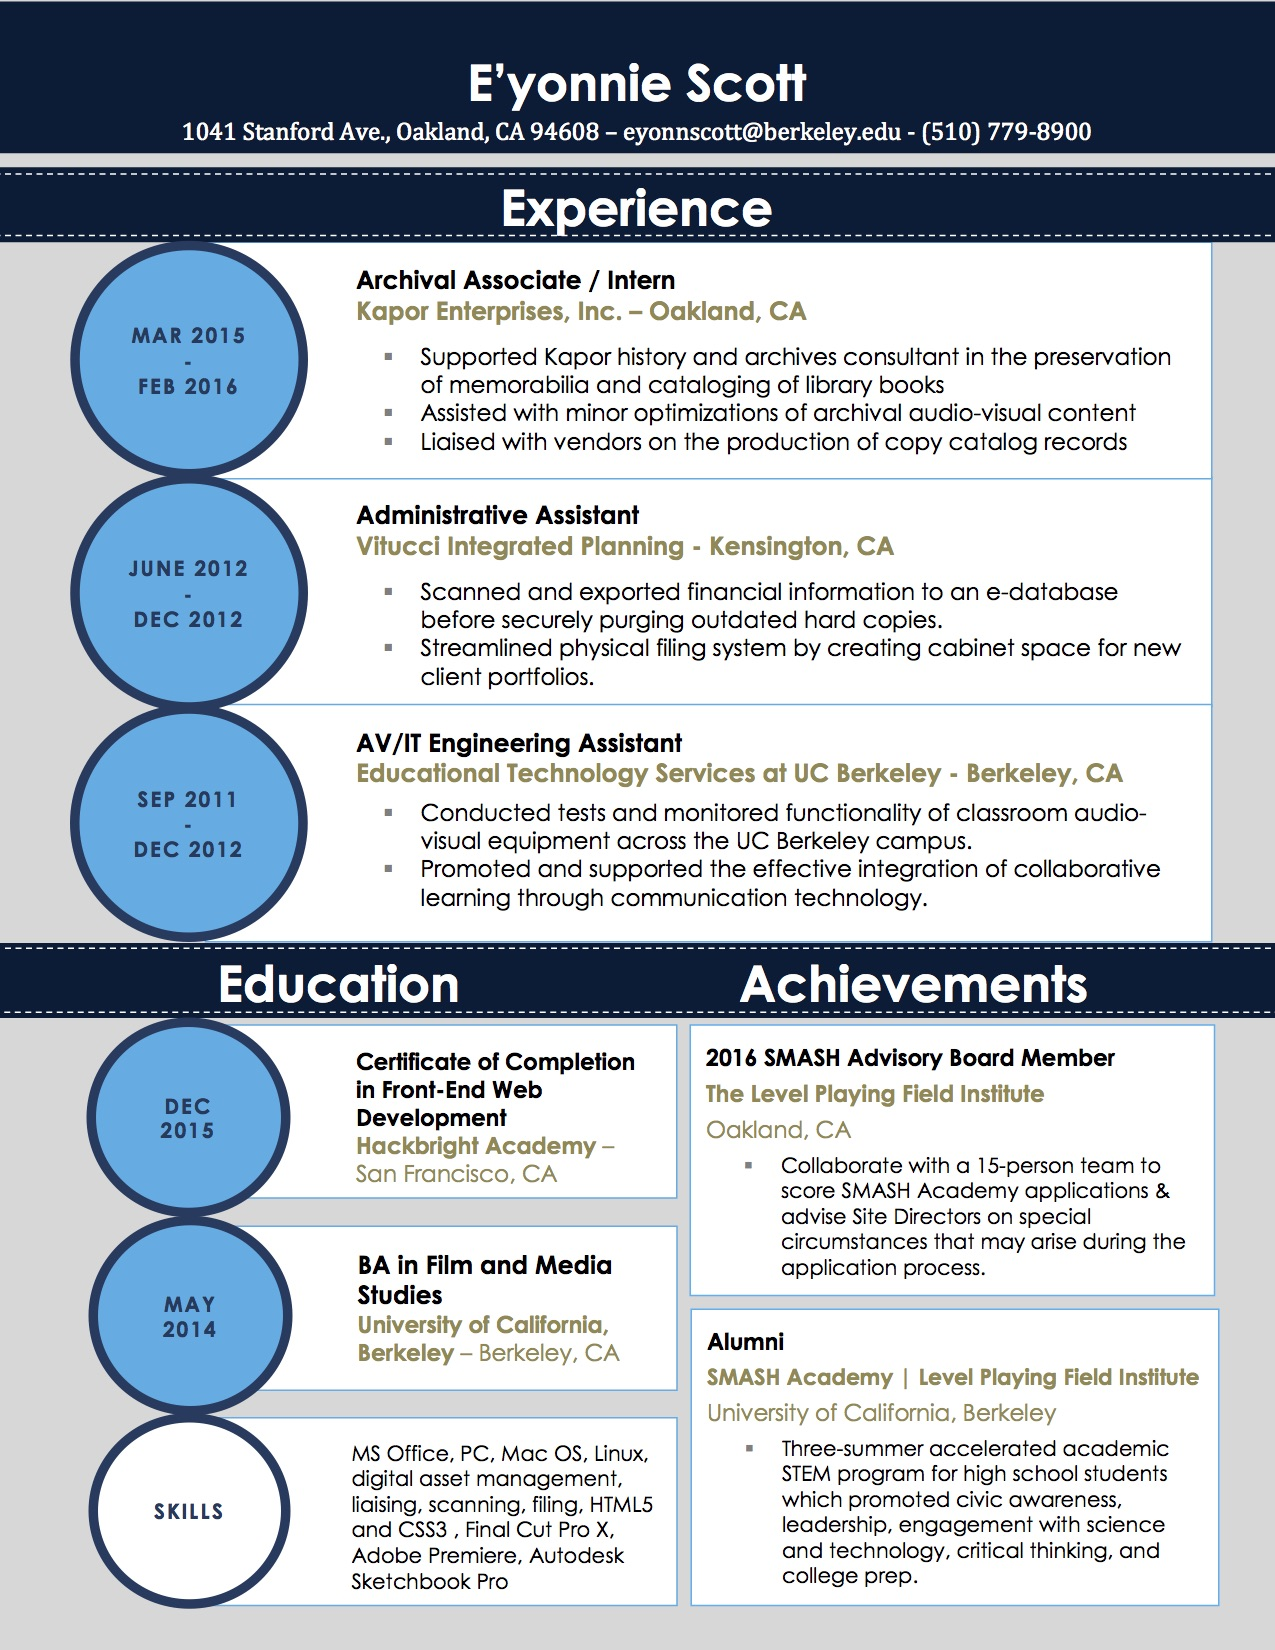
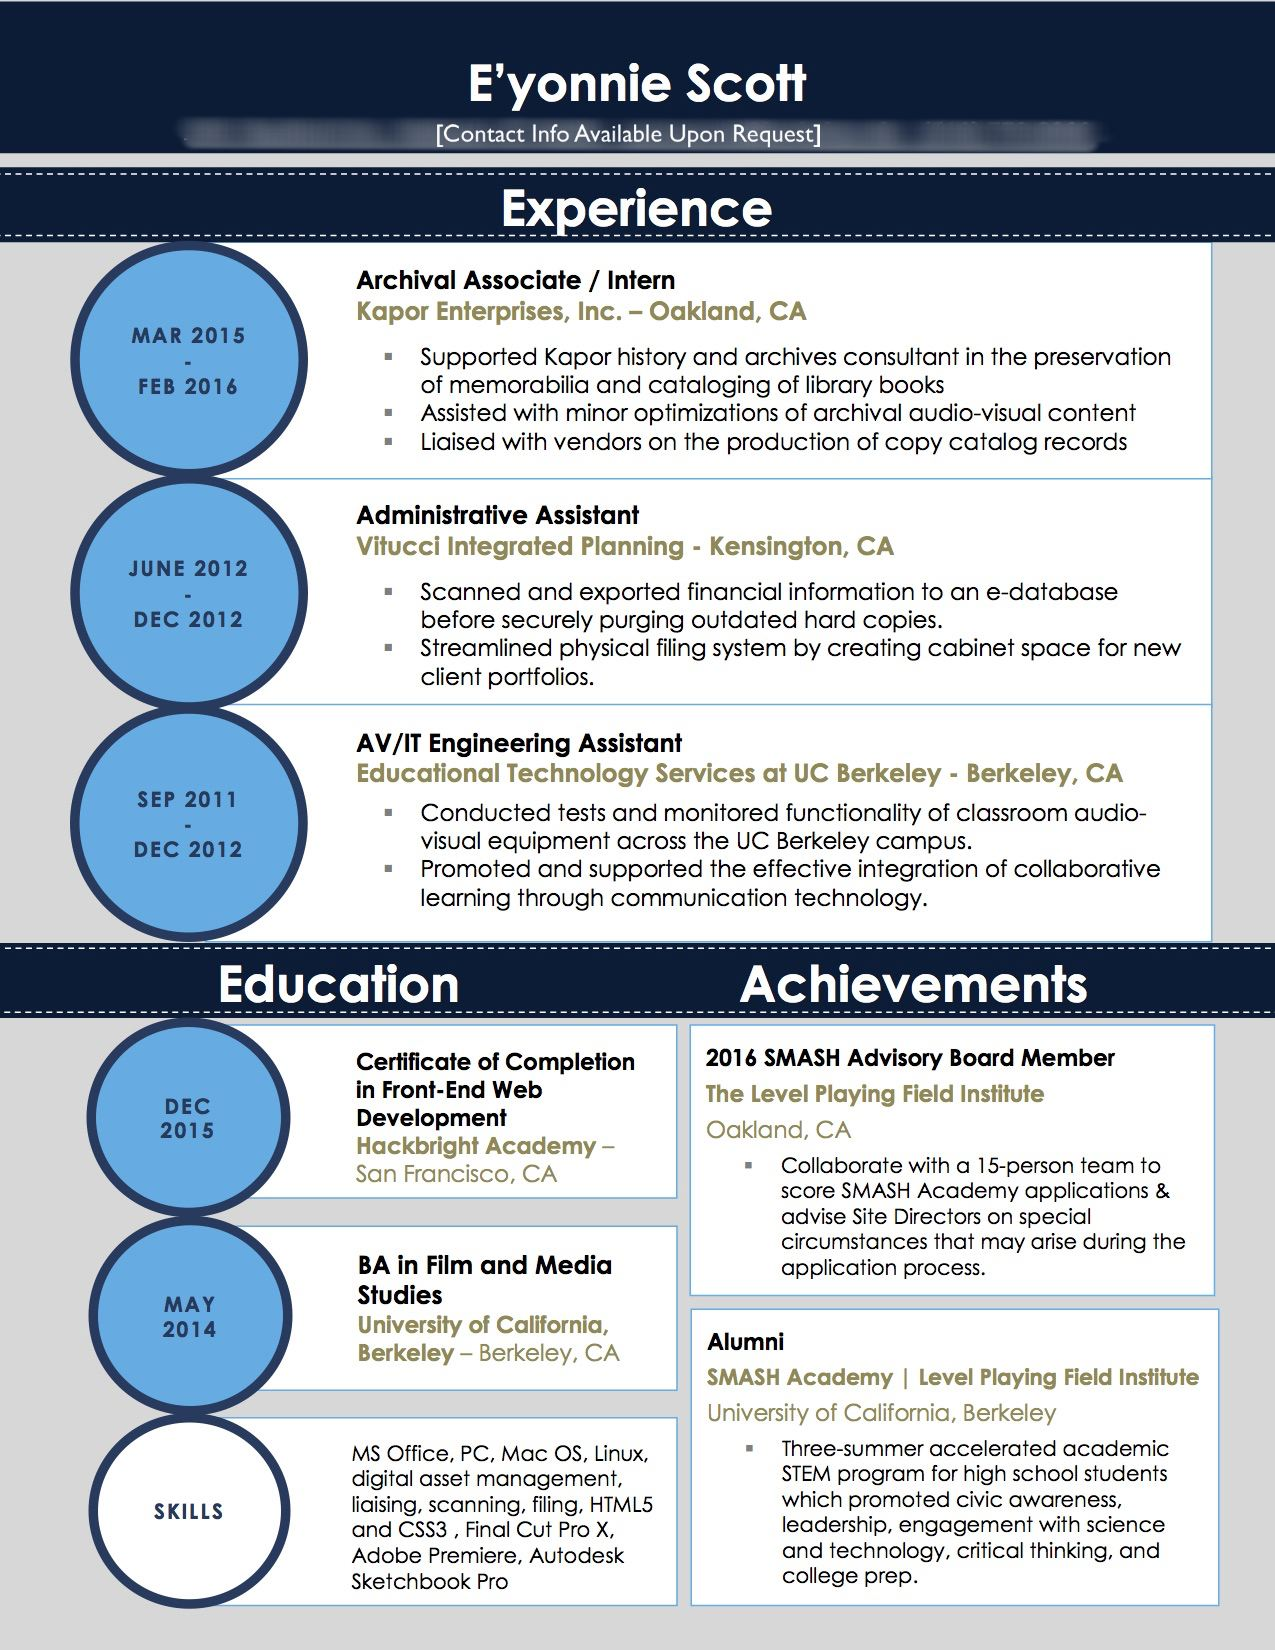
lightbox-blur-contact-info
removed resume download link, blurred contact info, and added clickable
lightbox to image.

Changed region(s): [[0.1224, 0.0618, 0.8565, 0.0927]]

diff --git a/cv.html b/cv.html
@@ -12,16 +12,16 @@
 		$(function(){
 			var image = $("#image");
 
-			$("#resume").click(function(){
+			$(".fancybox").click(function(){
 			// console.log("image clicked");
-				$("#resume").toggleClass("increasePictureSize"); 
+				$(".fancybox").toggleClass("increasePictureSize"); 
 				console.log(image);
 				});
-			$("#resume").mouseover(function(){
+			$(".fancybox").mouseover(function(){
 				$(this).animate({opacity: 0.4}, 200);
 
 			});
-			$("#resume").mouseout(function(){
+			$(".fancybox").mouseout(function(){
 				$(this).animate({opacity: 1.0}, 200);
 			});
 
@@ -30,6 +30,21 @@
 
 		});
 	</script>
+
+	<link rel="stylesheet" type="text/css" media="screen" href="http://cdnjs.cloudflare.com/ajax/libs/fancybox/1.3.4/jquery.fancybox-1.3.4.css" />
+	<style type="text/css">
+    a.fancybox img {
+        border: none;
+        box-shadow: 0 1px 7px rgba(0,0,0,0.6);
+        -o-transform: scale(1,1); -ms-transform: scale(1,1); -moz-transform: scale(1,1); -webkit-transform: scale(1,1); transform: scale(1,1); -o-transition: all 0.2s ease-in-out; -ms-transition: all 0.2s ease-in-out; -moz-transition: all 0.2s ease-in-out; -webkit-transition: all 0.2s ease-in-out; transition: all 0.2s ease-in-out;
+    	} 
+    a.fancybox:hover img {
+        position: relative; z-index: 999; -o-transform: scale(1.03,1.03); -ms-transform: scale(1.03,1.03); -moz-transform: scale(1.03,1.03); -webkit-transform: scale(1.03,1.03); transform: scale(1.03,1.03);
+    	}
+	</style>
+
+
+
 </head>
 <body>
 	<h1 id="header">Resume</h1>
@@ -64,15 +79,43 @@
 			</li>
 		</ul>
 	</nav>
-	<h2>Click Image to Download</h2>
+	<!-- <h2>Click to Enlarge</h2> -->
 	
 	<div>
-		<a href="eyonniescottresume.pdf" download>
-			<img id="resume" src="eyonniescottresume.jpg" width=50%>
-		</a>
+		<!-- <a href="eyonniescottresume.pdf" download> </a> -->
+			<img class="fancybox" src="eyonniescottresume.jpg" width=50%>
+			<!-- <img class="fancybox" src="eyonniescottresume.jpg" data-big="eyonniescottresume.jpg" width=%100> -->
+		
 	</div>
 	
 	<footer>E'yonnie Scott 2016 &copy</footer>
+
+
+
+
+	<script type="text/javascript" src="http://code.jquery.com/jquery-1.11.0.min.js"></script>
+	<script type="text/javascript" src="http://code.jquery.com/jquery-migrate-1.2.1.min.js"></script>
+	<script type="text/javascript" src="http://cdnjs.cloudflare.com/ajax/libs/fancybox/1.3.4/jquery.fancybox-1.3.4.pack.min.js"></script>
+	<script type="text/javascript">
+	$(function($){
+		var addToAll = false;
+		var gallery = true;
+		var titlePosition = 'inside';
+		$(addToAll ? 'img' : 'img.fancybox').each(function(){
+			var $this = $(this);
+			var title = $this.attr('title');
+			var src = $this.attr('data-big') || $this.attr('src');
+			var a = $('<a href="#" class="fancybox"></a>').attr('href', src).attr('title', title);
+			$this.wrap(a);
+		});
+		if (gallery)
+			$('a.fancybox').attr('rel', 'fancyboxgallery');
+		$('a.fancybox').fancybox({
+			titlePosition: titlePosition
+		});
+	});
+	$.noConflict();
+	</script>
 
 </body>
 </html>
